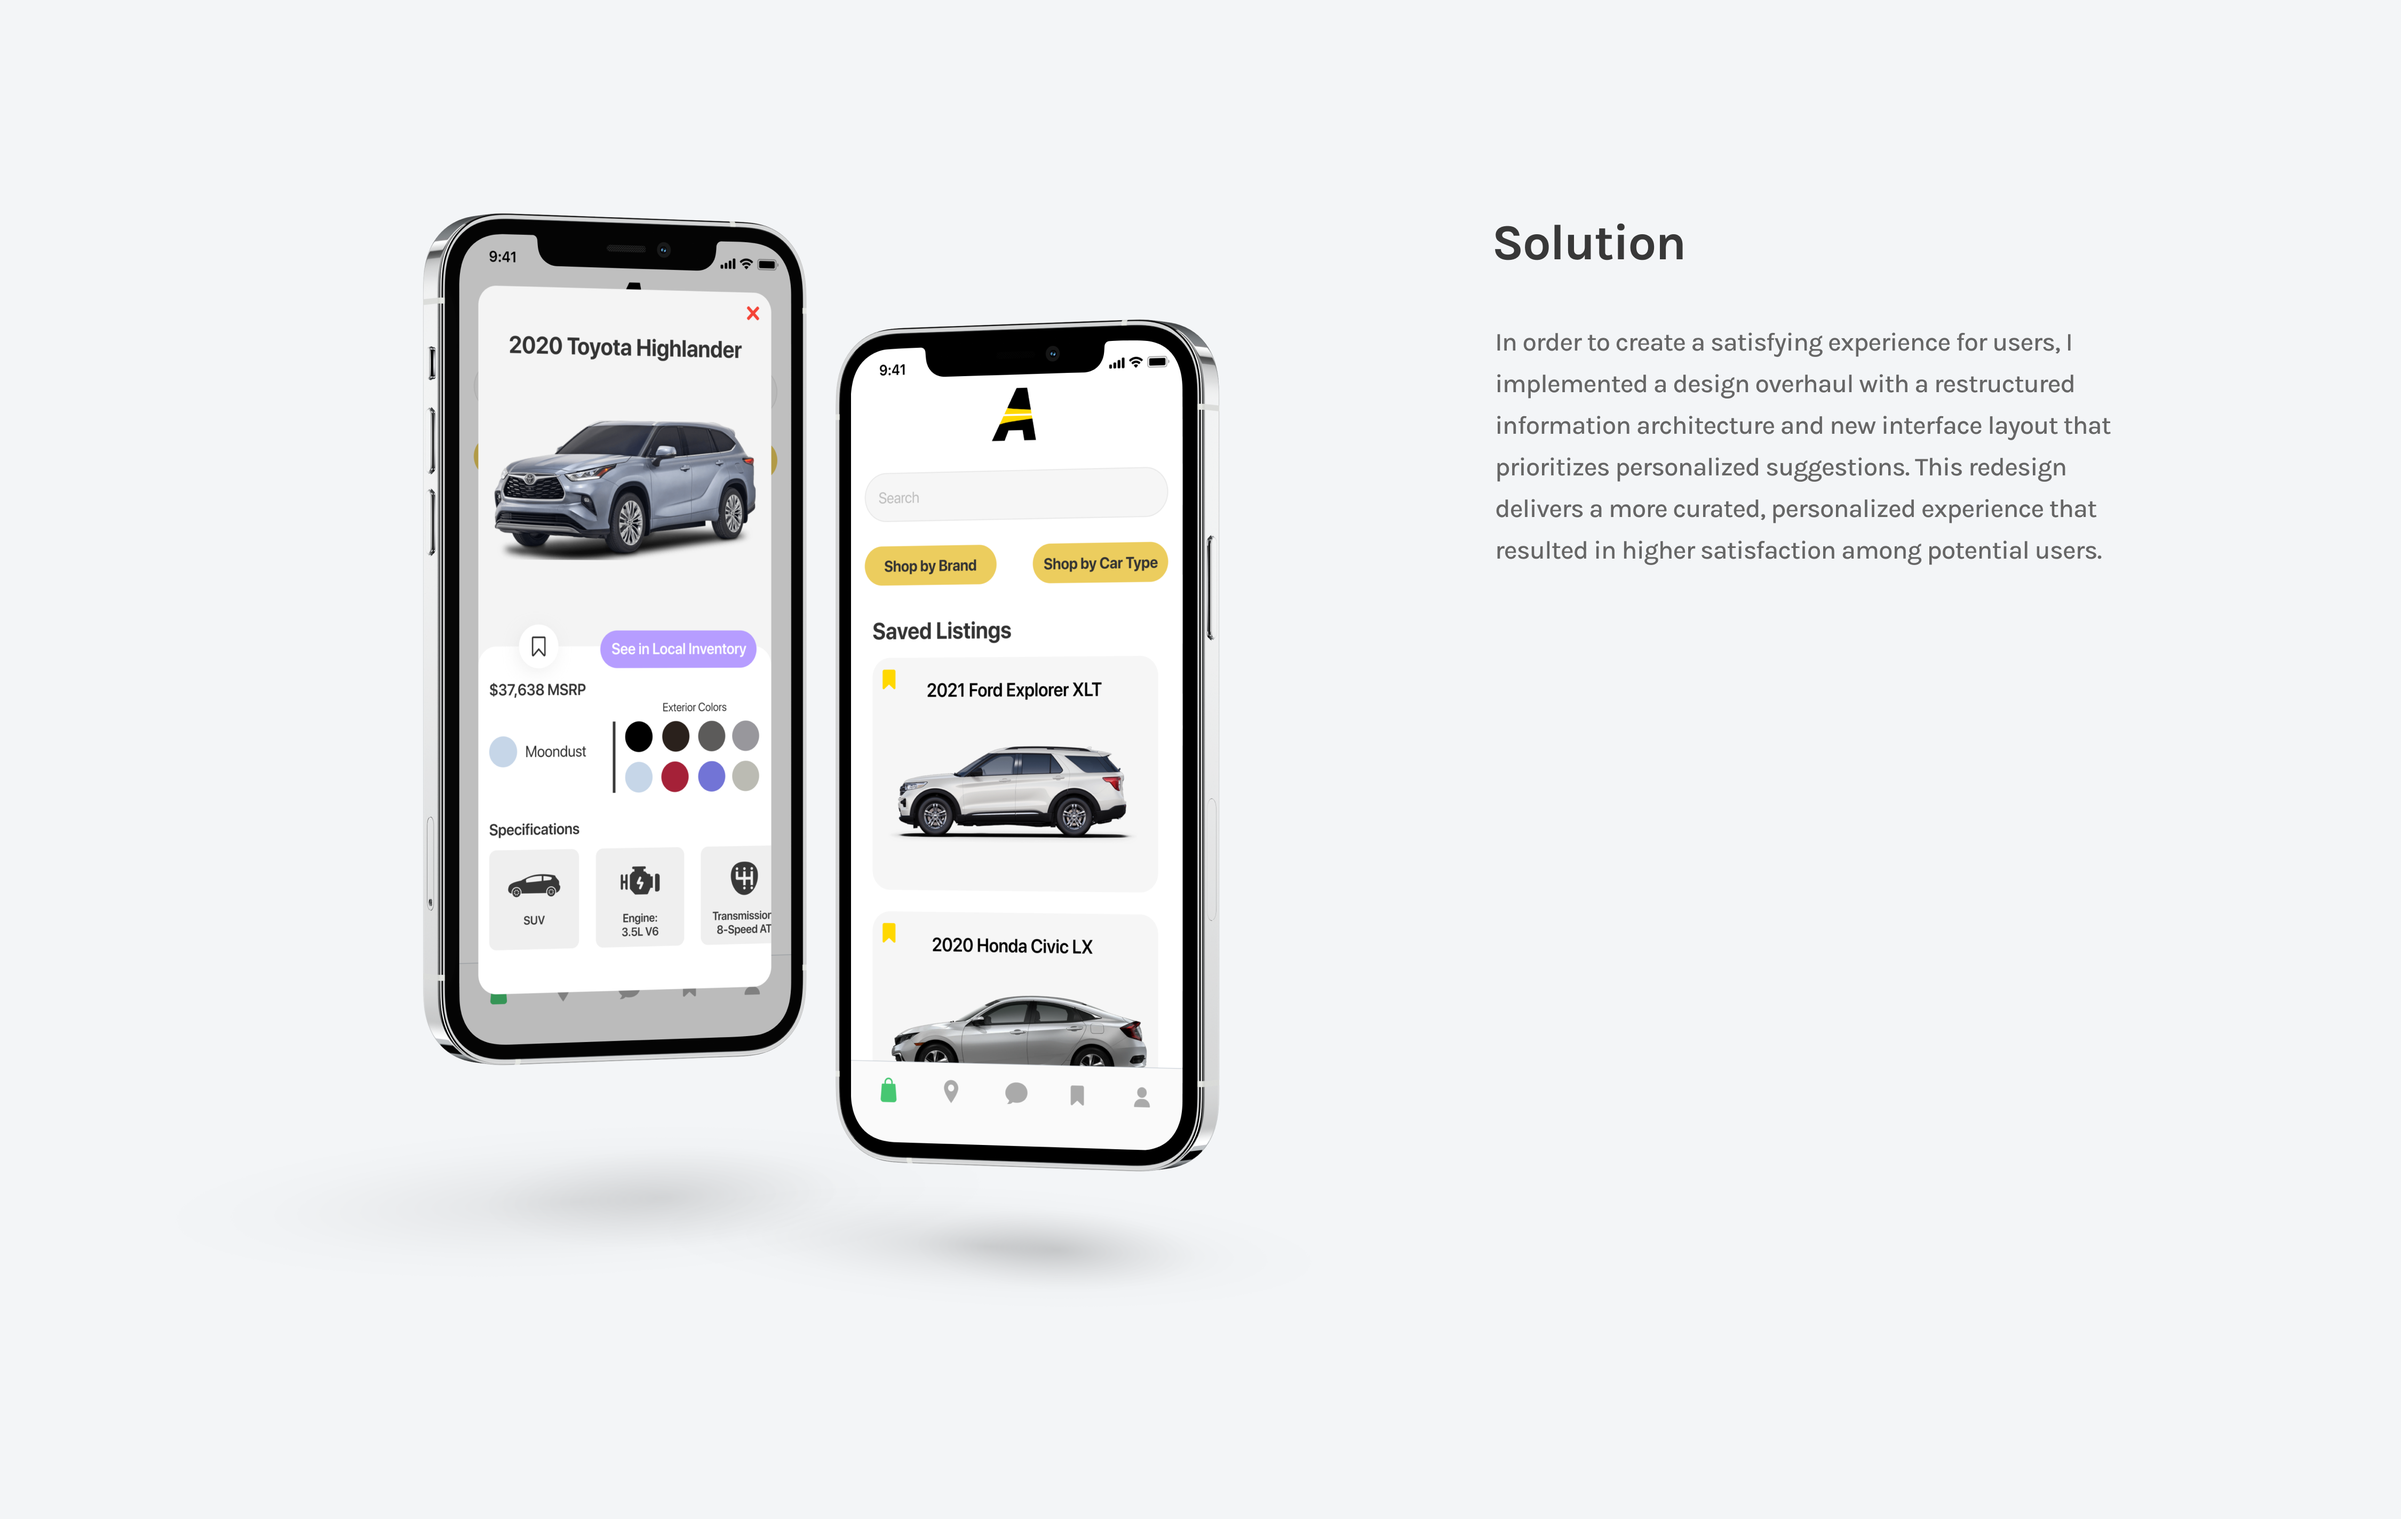
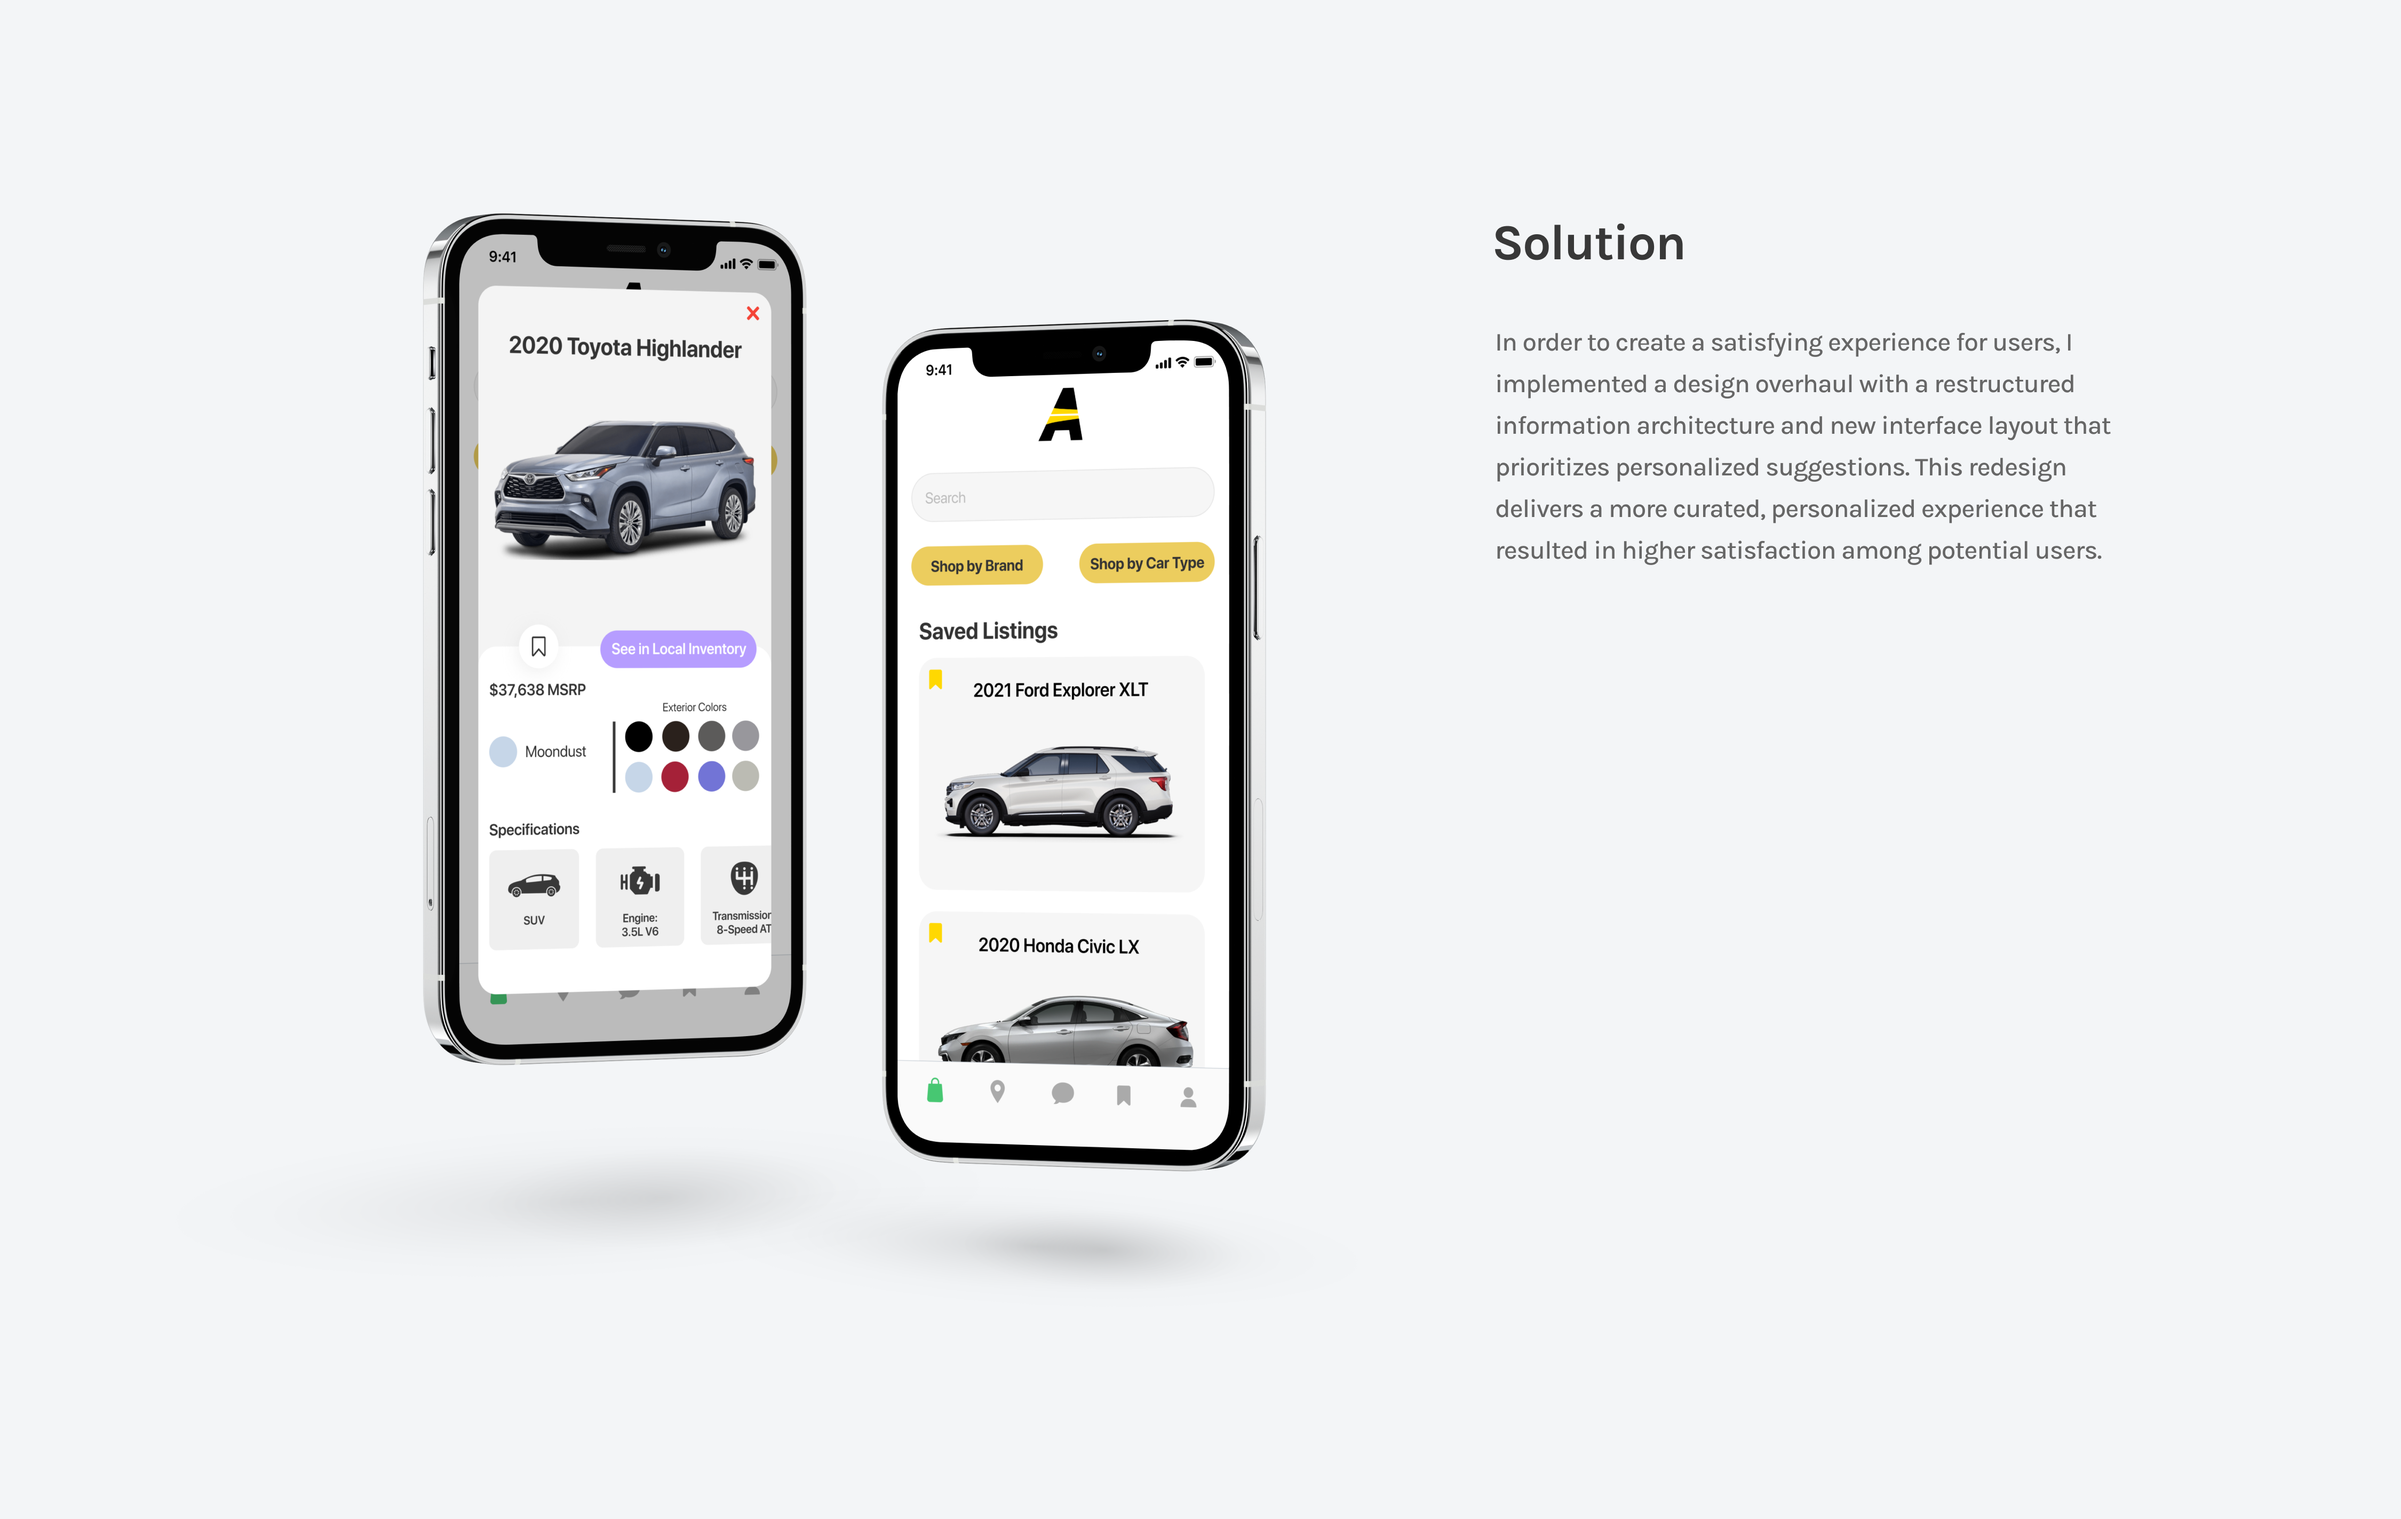
changed phone sizes more

Changed region(s): [[0.3422, 0.1855, 0.5289, 0.7727]]

diff --git a/site.css b/site.css
@@ -411,7 +411,6 @@ footer {
 }
 
 .prototype video,
-.init-proto video,
 .add-to-cart img {
     height: 77vh;
 }
@@ -487,8 +486,8 @@ footer {
     height: 80vh;
 }
 
-.journey-phone {
-    height: 80vh;
+.prototype .journey-phone {
+    height: 85vh;
 }
 
 .prototype .watch {
@@ -496,6 +495,10 @@ footer {
 }
 
 .prototype .boost-phone {
+    height: 75vh;
+}
+
+.init-proto video {
     height: 75vh;
 }
 
